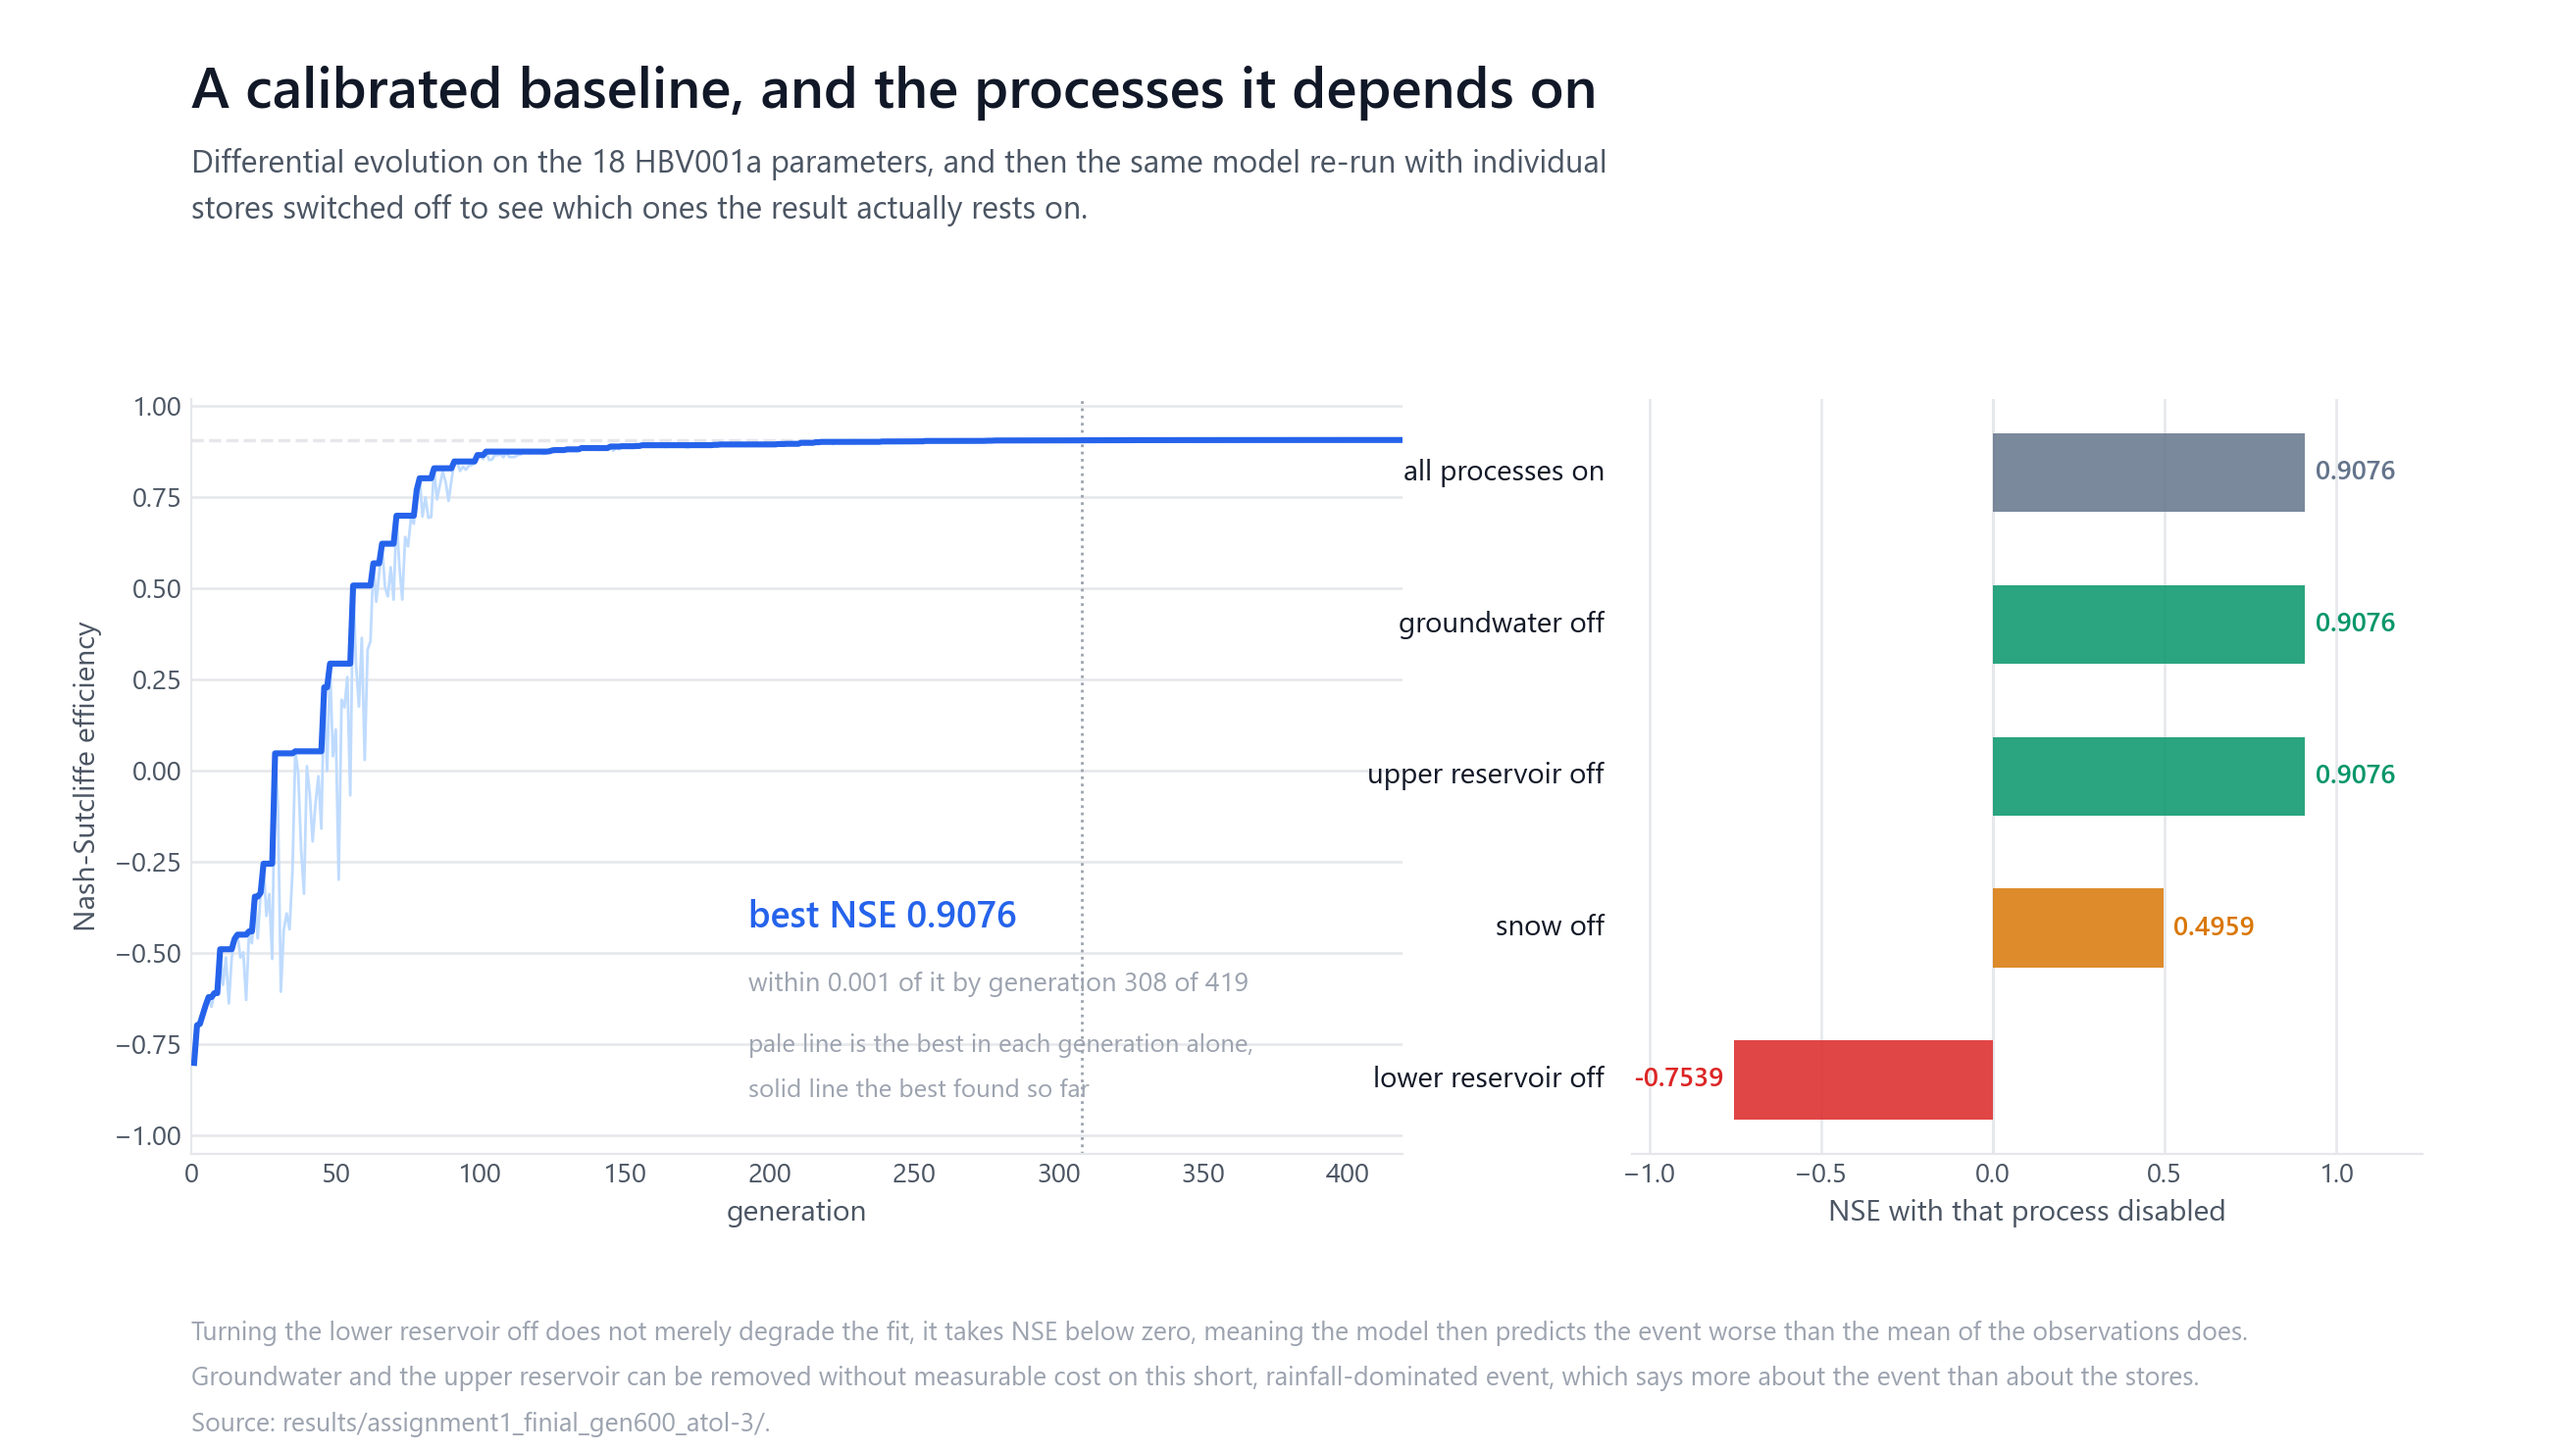
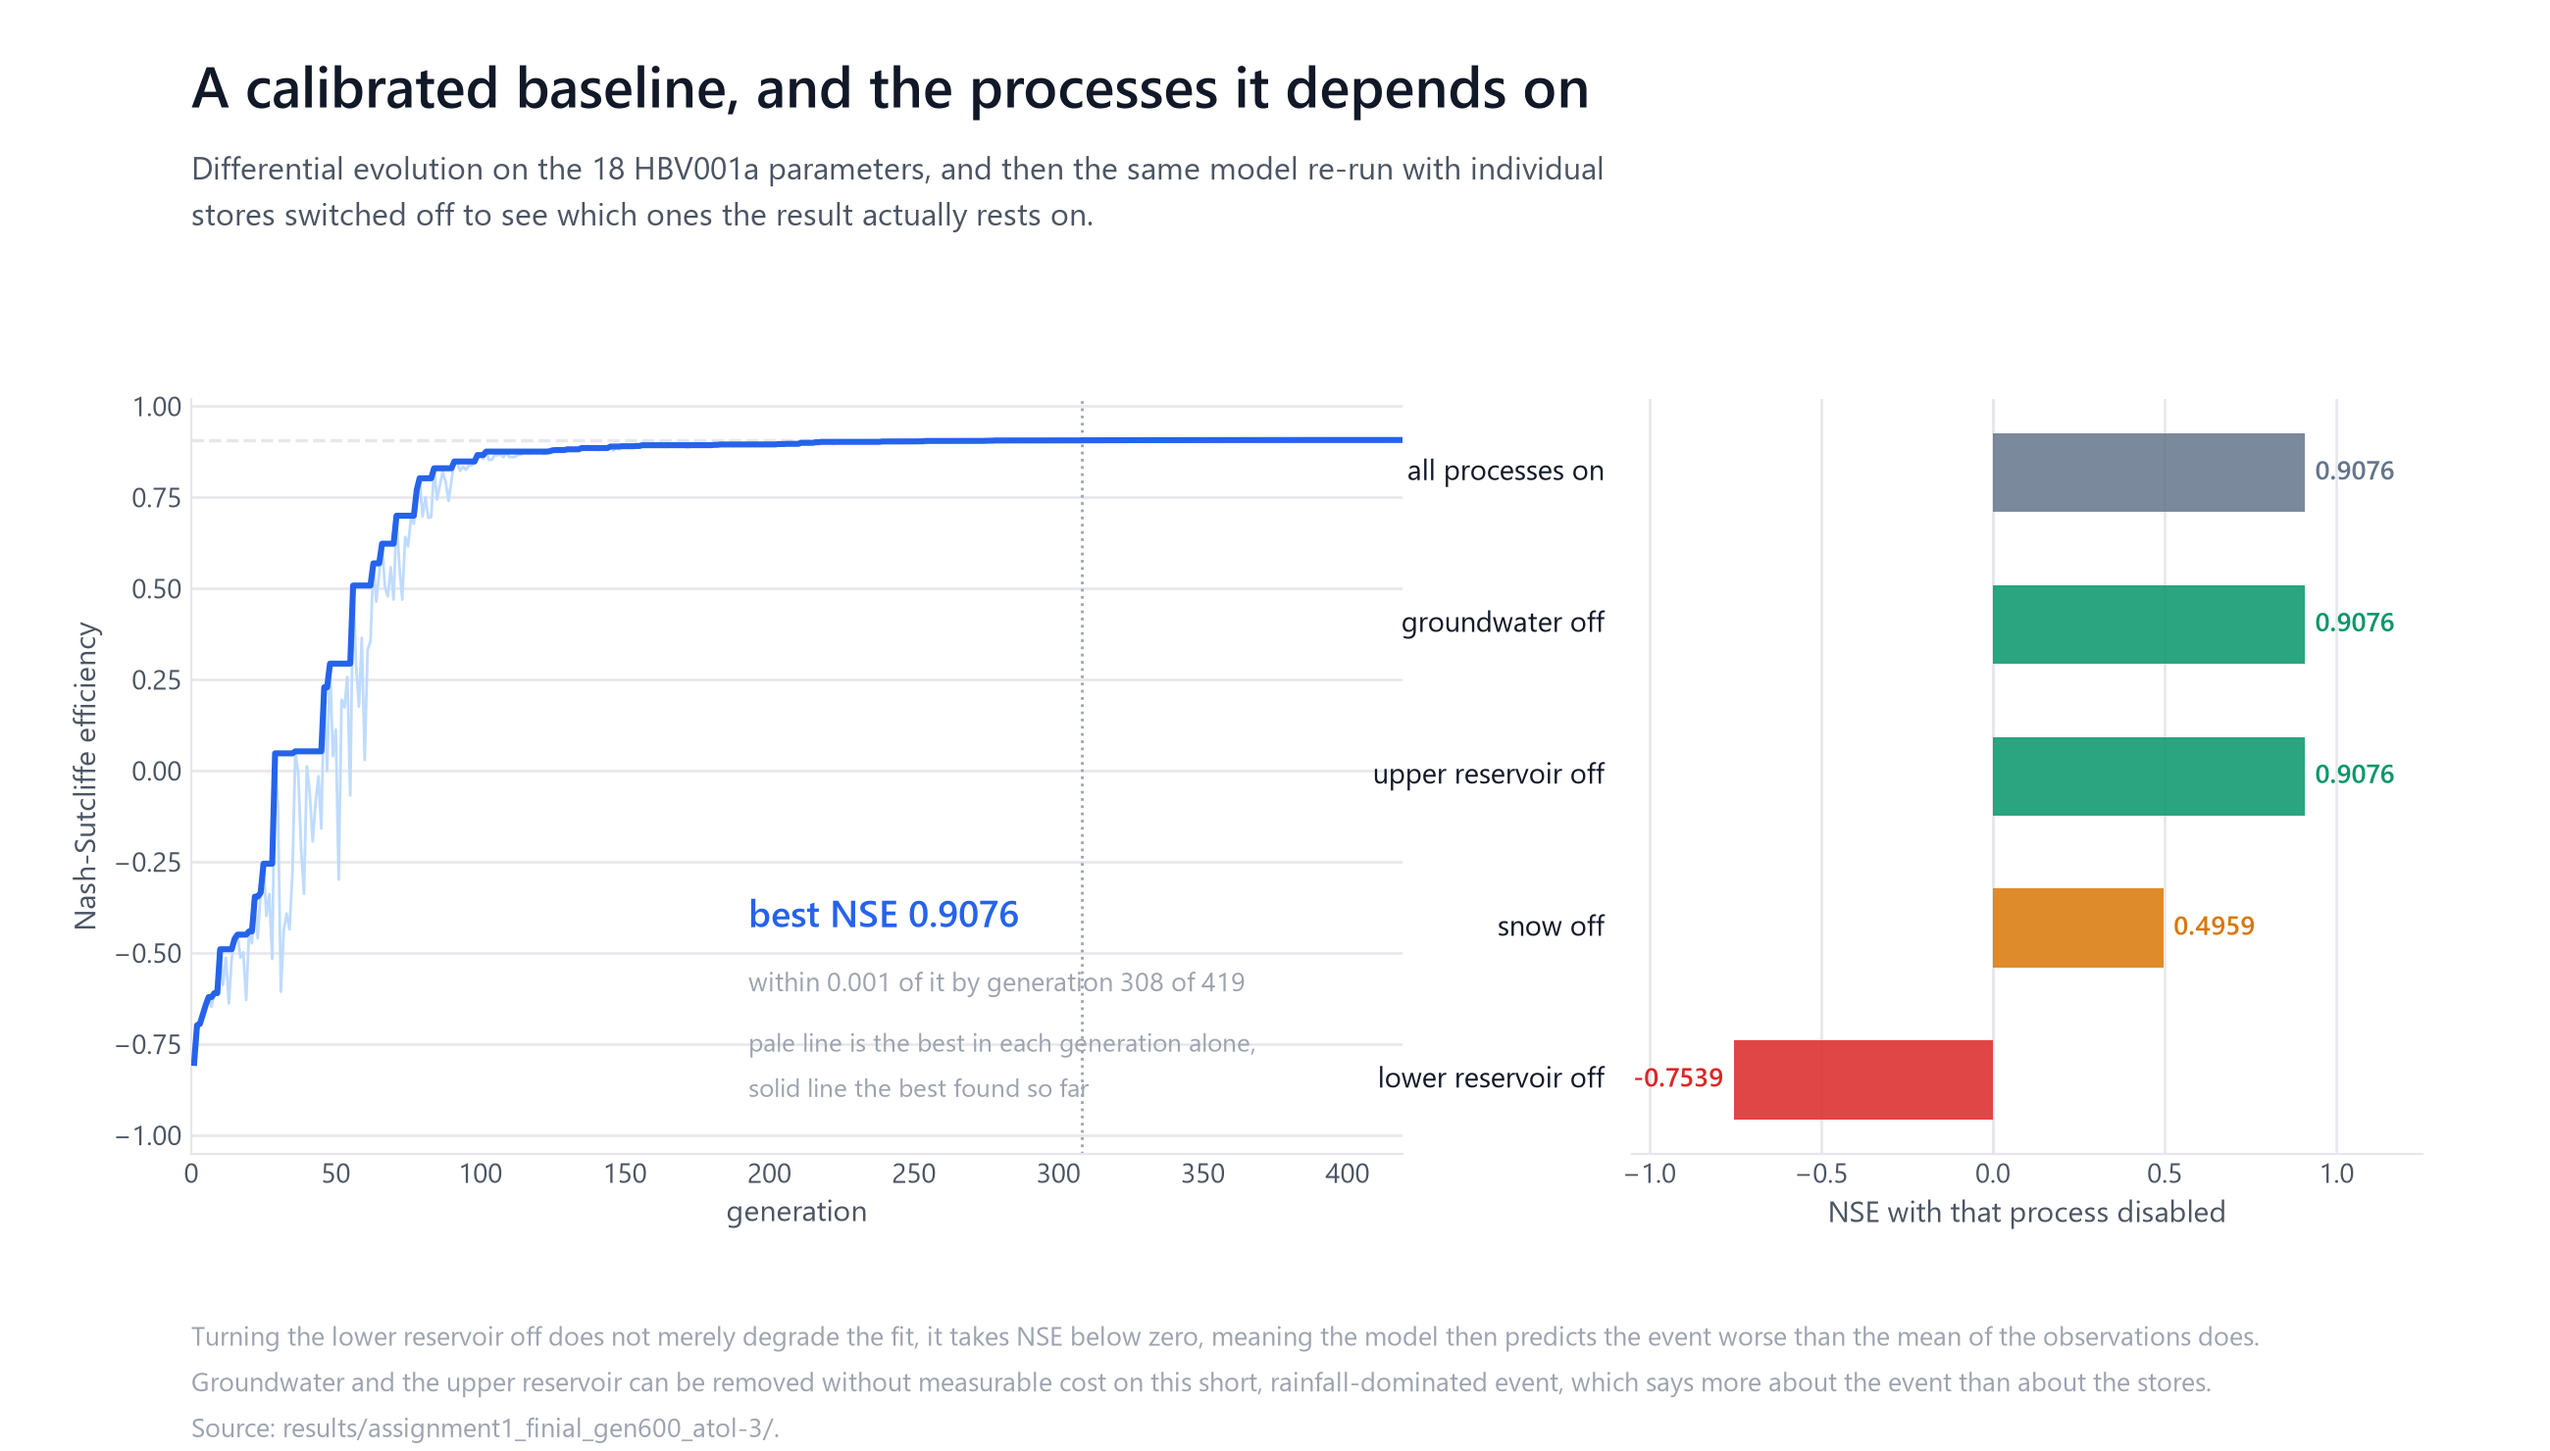
Make the figure provenance digest independent of the checkout
The previous commit regenerated the four figures and CI rejected them, saying
each was drawn from an older result file. It was not: the digests were computed
on Windows, where git checks the result files out with CRLF, and verified on
Linux, where they are LF. The same committed bytes, hashed twice, two answers.

So the check was measuring the platform rather than whether a figure is current,
and it would have failed for anyone regenerating on Windows. Both sides now
normalise line endings before hashing, with a note on each pointing at the other,
because this only works while they agree.

The figures are regenerated so their recorded digests are the normalised ones.
The values they assert are unchanged, which is what check_claims.py is for and
what it still reports: all 37 headline claims match.

diff --git a/scripts/figures/generate_figures.py b/scripts/figures/generate_figures.py
@@ -54,12 +54,26 @@ def nse(ofv):
 _READ: dict[str, str] = {}
 
 
+def content_digest(path: Path) -> str:
+    """A digest of what the file says, not of how the checkout spelled it.
+
+    The result files are text. Git hands a Windows checkout CRLF and a Linux one
+    LF for the same committed bytes, so hashing the working tree directly makes
+    the digest a property of the machine. A figure regenerated on Windows then
+    fails this check in CI, which is a false alarm about provenance and says
+    nothing about whether the figure is current.
+
+    `check_repository.py` normalises the same way. If one side changes, both must.
+    """
+    return hashlib.sha256(path.read_bytes().replace(b"\r\n", b"\n")).hexdigest()[:16]
+
+
 def need(path: Path) -> Path:
     if not path.exists():
         raise SystemExit(f"missing: {path.relative_to(ROOT).as_posix()}")
     key = path.relative_to(ROOT).as_posix()
     if key not in _READ:
-        _READ[key] = hashlib.sha256(path.read_bytes()).hexdigest()[:16]
+        _READ[key] = content_digest(path)
     return path
 
 

diff --git a/scripts/check_repository.py b/scripts/check_repository.py
@@ -86,7 +86,14 @@ def check_figures() -> list[str]:
             if not source.is_file():
                 failures.append(f"{figure.name} was drawn from {name}, which is gone")
                 continue
-            now = hashlib.sha256(source.read_bytes()).hexdigest()[:len(digest)]
+            # Normalised, because the result files are text and a Windows
+            # checkout spells the same committed bytes with CRLF. Hashing the
+            # working tree raw makes this a test of the platform rather than of
+            # whether the figure is current: a figure regenerated on Windows
+            # failed here in CI for that reason alone. generate_figures.py
+            # normalises the same way, and if one side changes both must.
+            content = source.read_bytes().replace(b"\r\n", b"\n")
+            now = hashlib.sha256(content).hexdigest()[:len(digest)]
             if now != digest:
                 failures.append(
                     f"{figure.name} was drawn from an older {name}; "
